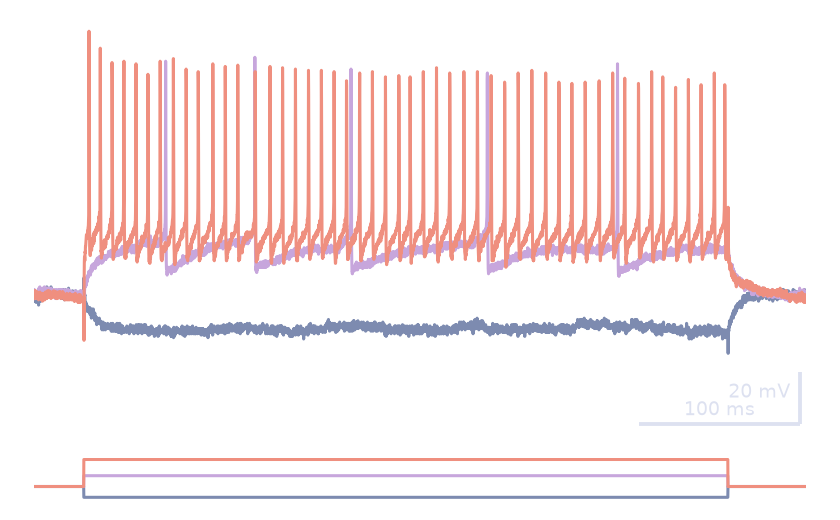
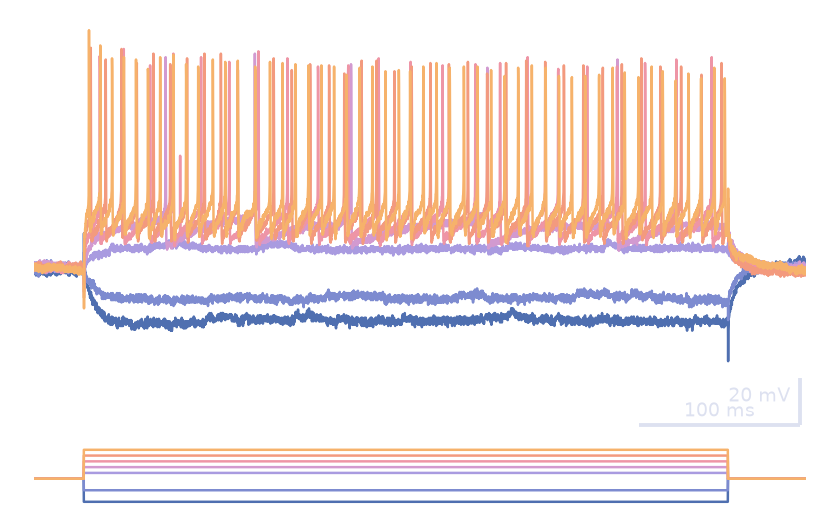
Electrophysiology figures: seven sweeps with their stimuli, on black
Each figure now overlays the responses from -0.8 to +1.0 nA, coloured from cool
to warm, with the matching current steps underneath; tiles are pure black.

Changed region(s): [[0.031, 0.0615, 0.9595, 0.6769], [0.031, 0.8615, 0.9595, 0.9846], [0.7738, 0.7385, 0.9595, 0.8308]]

diff --git a/frontend/src/pages/Data.tsx b/frontend/src/pages/Data.tsx
@@ -16,8 +16,8 @@ type Feature = { stats: Stat[]; visual: ReactNode; sources: string };
 
 const REGIONS = ["DG", "CA3", "CA2", "CA1", "Sub", "EC"];
 
-// Voltage responses to current steps (-0.4 nA, near threshold, strongest step) of three
-// of the site's recordings, drawn from their .abf files. Imported, so the build names
+// Voltage responses to current steps (-0.8 to +1.0 nA) of three of the site's
+// recordings, drawn from their .abf files (backend/tools/draw_trace_figures.py). Imported, so the build names
 // them after their content and browsers never show an outdated copy.
 const TRACE_FIGURES = [
   { src: trace1, id: "internal_electrophysiologies-95912005", caption: "cAC · pyramidal" },

diff --git a/frontend/src/styles/global.css b/frontend/src/styles/global.css
@@ -2040,7 +2040,7 @@ textarea.field {
 /* trace figures: same layout as the morphologies; transparent figures with light
    ink, drawn for these tiles, shown whole */
 .mosaic-plot .mosaic-tile {
-  background: #141519;
+  background: #000;
 }
 
 .mosaic-plot img {

diff --git a/backend/tools/draw_trace_figures.py b/backend/tools/draw_trace_figures.py
@@ -6,9 +6,9 @@
 The .abf files are the recordings' download links in data/internal/electrophysiologies.json
 (95912005, 95810035 and 98513011).
 
-Transparent background, light ink, three overlaid sweeps (a hyperpolarizing step,
-a step near threshold, the strongest step), scale bars instead of axes, and the
-current protocol underneath.
+Transparent background, light ink, the sweeps from -0.8 nA up to the strongest step
+overlaid (coloured from cool to warm, strongest on top), scale bars instead of axes,
+and the current steps underneath in the same colours.
 """
 import sys
 import numpy as np
@@ -18,38 +18,36 @@ matplotlib.use("Agg")
 import matplotlib.pyplot as plt
 
 INK = "#dde1f0"
-COLORS = ["#7d8bb0", "#c7a6dc", "#ef8f7f"]   # hyperpolarizing, near threshold, strongest
+# cool (most negative step) to warm (strongest step)
+GRADIENT = ["#4f6fb0", "#7d8bd0", "#a99be0", "#d29ad0", "#ee95a6", "#f39a7e", "#f6b26b"]
+AMPS = [-0.8, -0.4, 0.2, 0.4, 0.6, 0.8, 1.0]
 
 def spikes(y):
     return int(((y[1:] > -10) & (y[:-1] <= -10)).sum())
 
-def draw(path, out, width, height, t_end=0.48, near=None):
+def draw(path, out, width, height, t_end=0.48):
     abf = pyabf.ABF(path)
     rate = abf.dataRate
     sweeps = []
     for s in range(abf.sweepCount):
         abf.setSweep(s)
         sweeps.append((abf.sweepC[np.argmax(abs(abf.sweepC))], abf.sweepY.copy(), abf.sweepC.copy()))
-    hyper = min((sw for sw in sweeps if -0.45 < sw[0] < -0.35), key=lambda sw: abs(sw[0] + 0.4))
-    firing = [sw for sw in sweeps if sw[0] > 0 and spikes(sw[1]) > 0]
-    strongest = max(firing, key=lambda sw: (spikes(sw[1]), sw[0]))
-    first = near if near is not None else min(firing, key=lambda sw: sw[0])
-    if isinstance(first, float):
-        first = min(sweeps, key=lambda sw: abs(sw[0] - first))
-    chosen = [hyper, first, strongest]
+    chosen = [min(sweeps, key=lambda sw: abs(sw[0] - a)) for a in AMPS]
+    chosen = [sw for i, sw in enumerate(chosen) if abs(sw[0] - AMPS[i]) < 0.05]
+    colors = GRADIENT[-len(chosen):] if len(chosen) < len(GRADIENT) else GRADIENT
 
     n = int(t_end * rate)
     t = np.arange(n) / rate * 1000
     fig = plt.figure(figsize=(width / 100, height / 100), dpi=200)
     fig.patch.set_alpha(0)
     v = fig.add_axes([0.04, 0.17, 0.92, 0.79])
-    c = fig.add_axes([0.04, 0.04, 0.92, 0.08], sharex=v)
+    c = fig.add_axes([0.04, 0.03, 0.92, 0.11], sharex=v)
     for ax in (v, c):
         ax.set_axis_off()
         ax.patch.set_alpha(0)
-    for (amp, y, cmd), color in zip(chosen, COLORS):
-        v.plot(t, y[:n], color=color, lw=1.1, solid_joinstyle="round")
-        c.plot(t, cmd[:n], color=color, lw=1.1)
+    for (amp, y, cmd), color in zip(chosen, colors):
+        v.plot(t, y[:n], color=color, lw=0.9, solid_joinstyle="round")
+        c.plot(t, cmd[:n], color=color, lw=0.9)
     lo = min(sw[1][:n].min() for sw in chosen)
     hi = max(sw[1][:n].max() for sw in chosen)
     # room under the lowest trace for the scale bars
